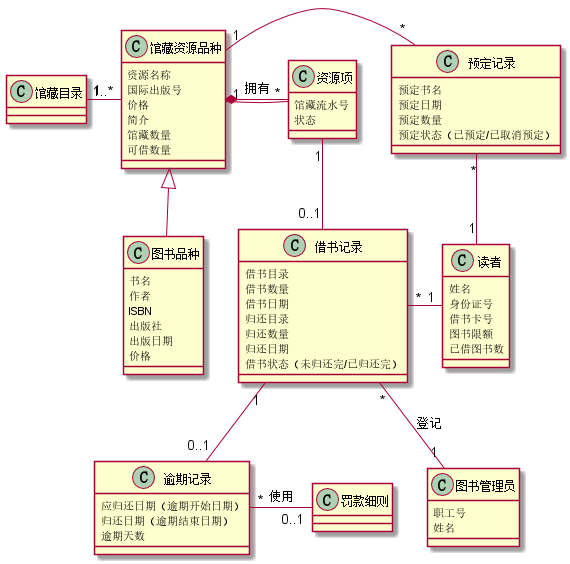
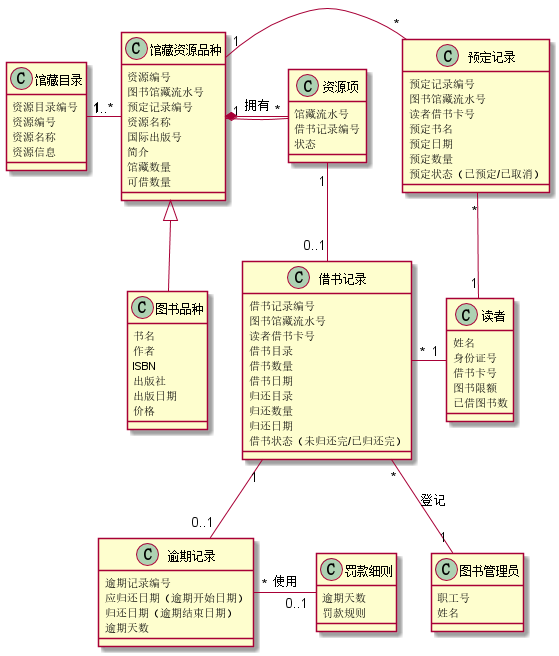
更新

Changed region(s): [[0.0, 0.0, 1.0, 0.9947]]

diff --git a/test3/README.md b/test3/README.md
@@ -9,17 +9,25 @@
 
 ``` class
 @startuml
-class 馆藏目录
+class 馆藏目录{
+资源目录编号
+资源编号
+资源名称
+资源信息
+}
 class 馆藏资源品种{
+资源编号
+图书馆藏流水号
+预定记录编号
 资源名称
 国际出版号
-价格
 简介
 馆藏数量
 可借数量
 }
 class 资源项{
 馆藏流水号
+借书记录编号
 状态
 }
 class 图书品种{
@@ -31,12 +39,18 @@ ISBN
 价格
 }
 class 预定记录{
+预定记录编号
+图书馆藏流水号
+读者借书卡号
 预定书名
 预定日期
 预定数量
-预定状态（已预定/已取消预定）
+预定状态（已预定/已取消）
 }
 class 借书记录{
+借书记录编号
+图书馆藏流水号
+读者借书卡号
 借书目录
 借书数量
 借书日期
@@ -57,11 +71,15 @@ class 图书管理员{
 姓名
 }
 class 逾期记录{
+逾期记录编号
 应归还日期（逾期开始日期）
 归还日期（逾期结束日期）
 逾期天数
 }
-class 罚款细则
+class 罚款细则{
+逾期天数
+罚款规则
+}
 馆藏目录 "1" - "1..*" 馆藏资源品种
 馆藏资源品种 <|-- 图书品种
 馆藏资源品种 "1" - "*" 预定记录
@@ -71,7 +89,7 @@ class 罚款细则
 资源项 "1" -- "0..1" 借书记录
 借书记录 "*" -- "1" 图书管理员:登记
 借书记录 "1" -- "0..1" 逾期记录
-借书记录 - 读者
+借书记录 "*" - "1" 读者
 逾期记录 "*" - "0..1" 罚款细则:使用
 @enduml
 ```
